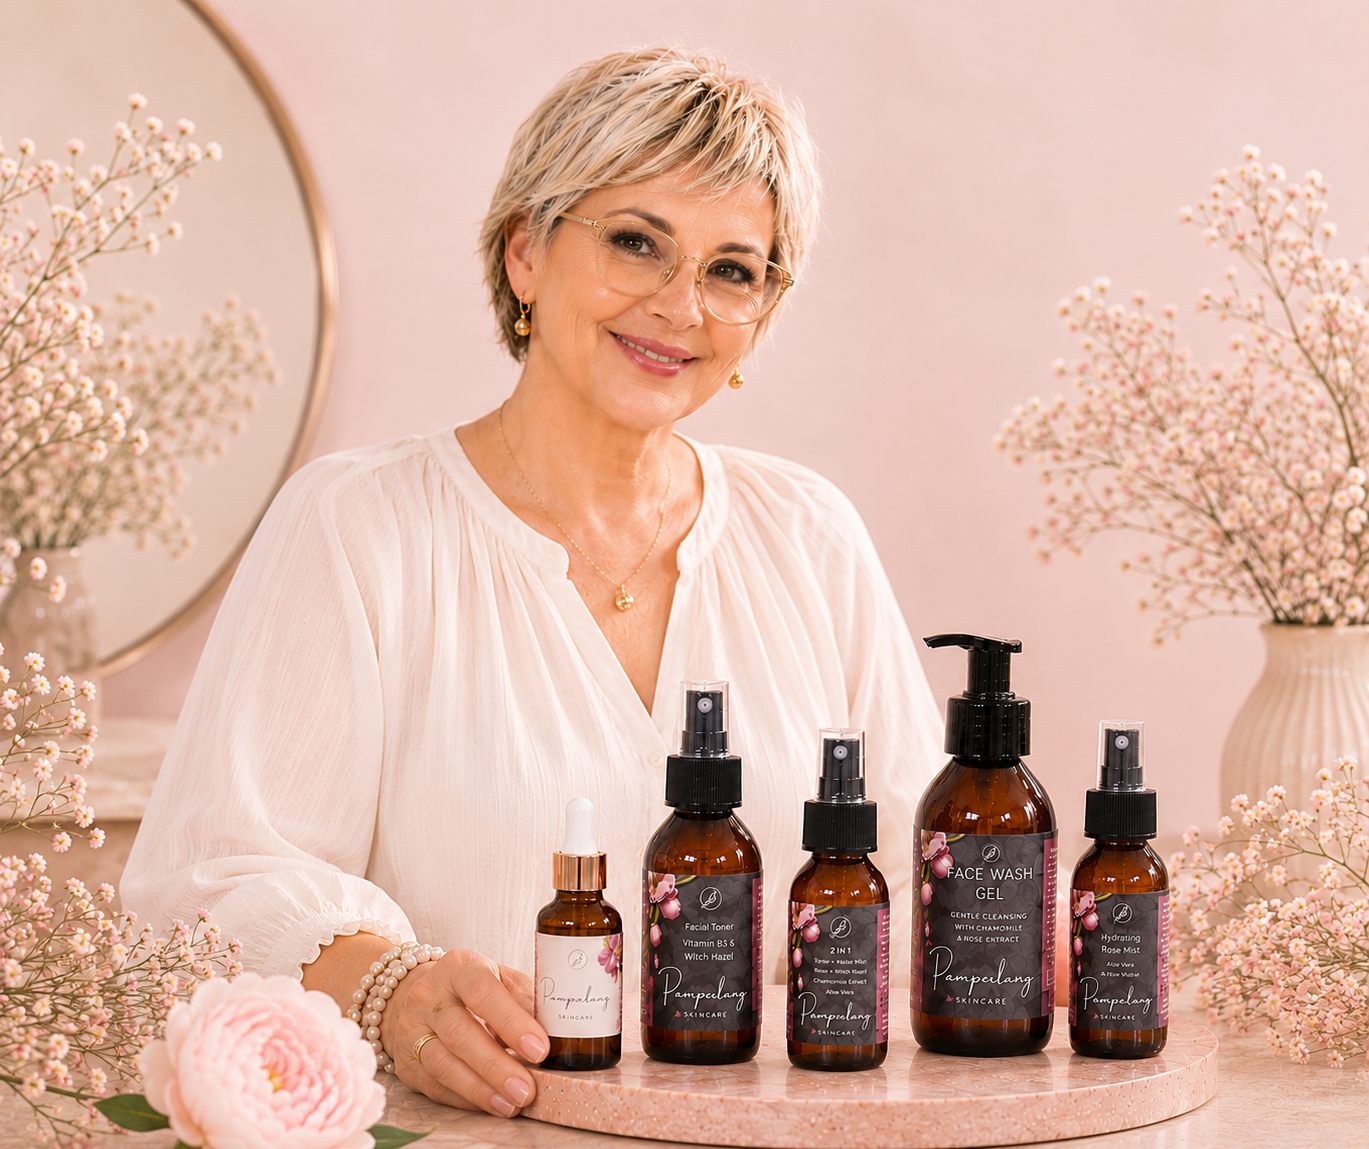
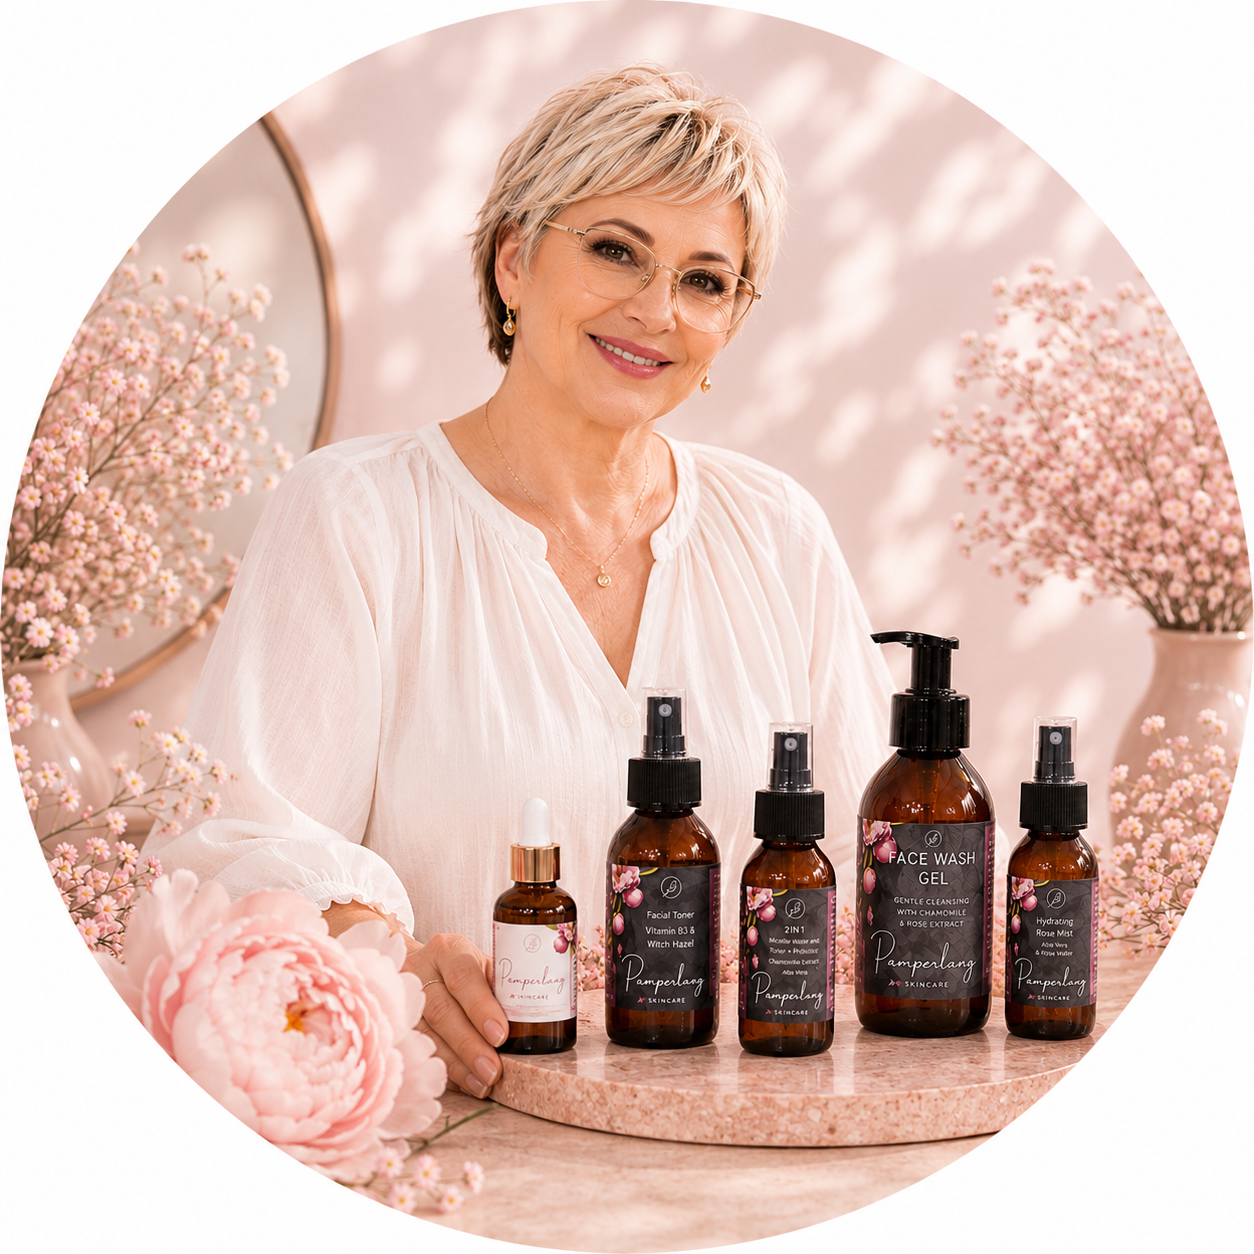
Swap in Karin's final cropped hero photo

diff --git a/index.html b/index.html
@@ -292,7 +292,7 @@
       height: 480px;
       border-radius: 260px;
       overflow: hidden;
-      background: url('karin-hero.png') no-repeat center 15% / cover;
+      background: url('karin-hero.png') no-repeat center / cover;
       box-shadow: 0 30px 80px rgba(139,58,88,0.2);
       position: relative;
     }
